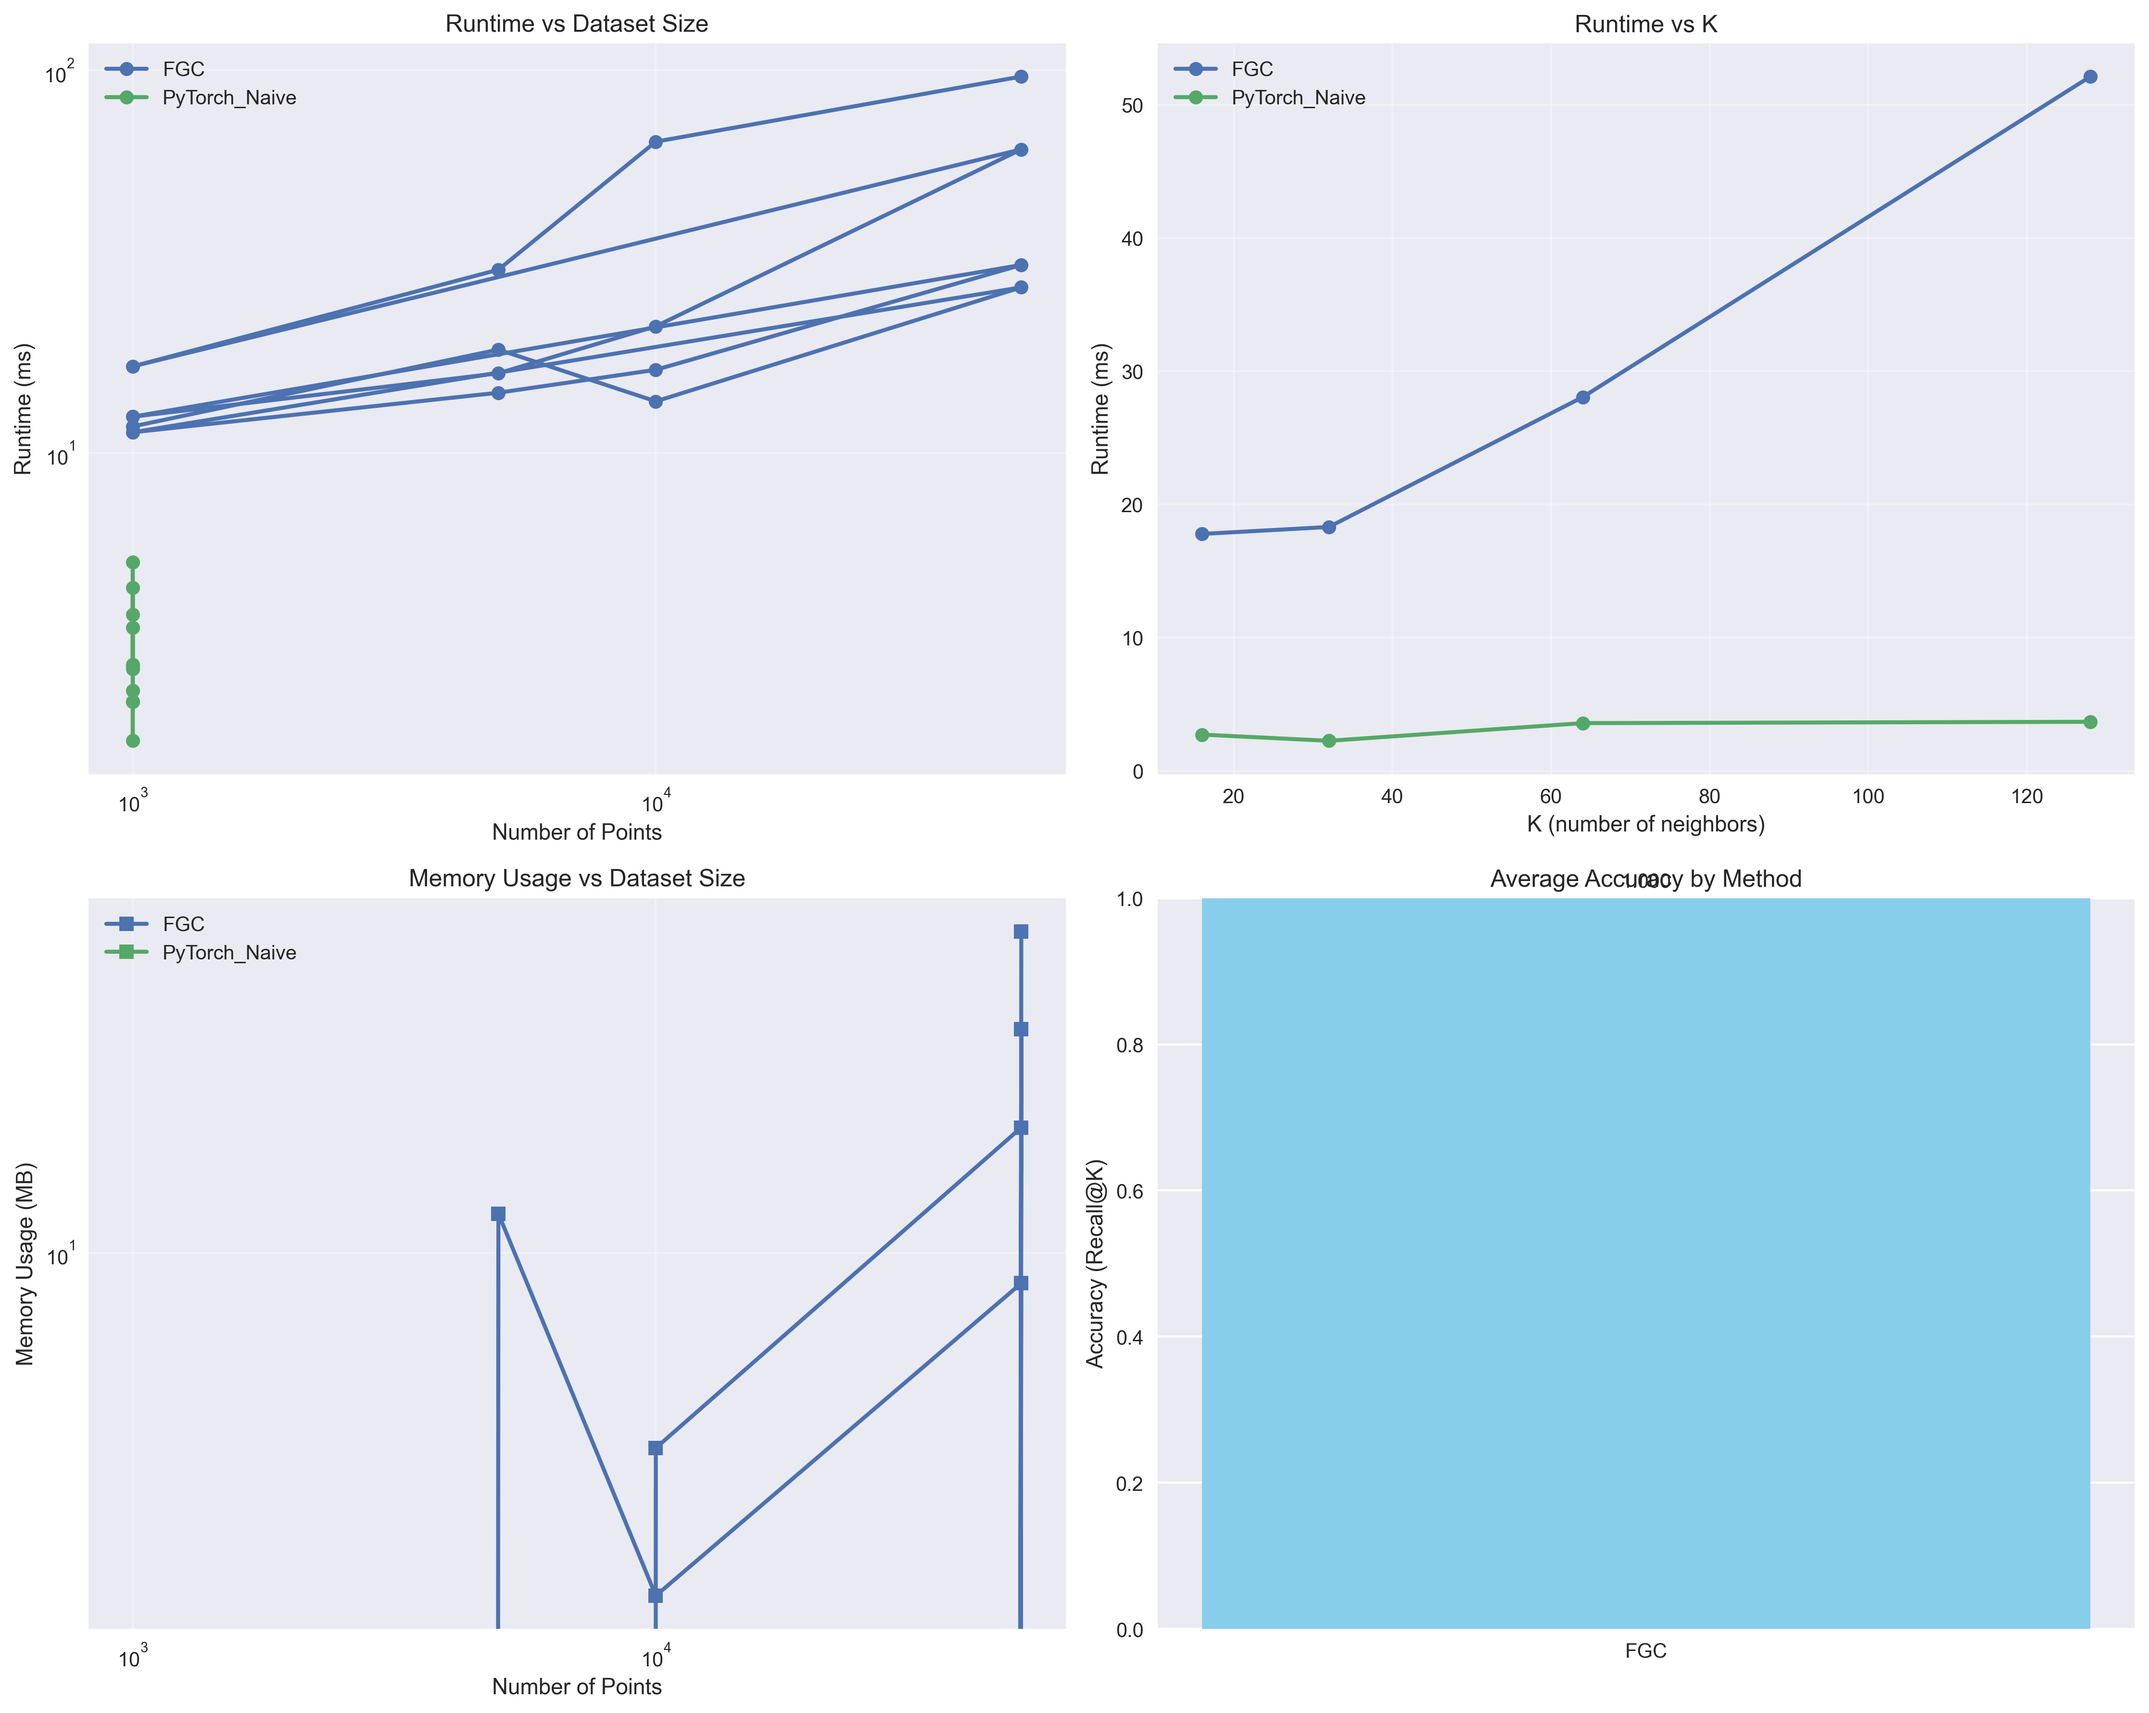
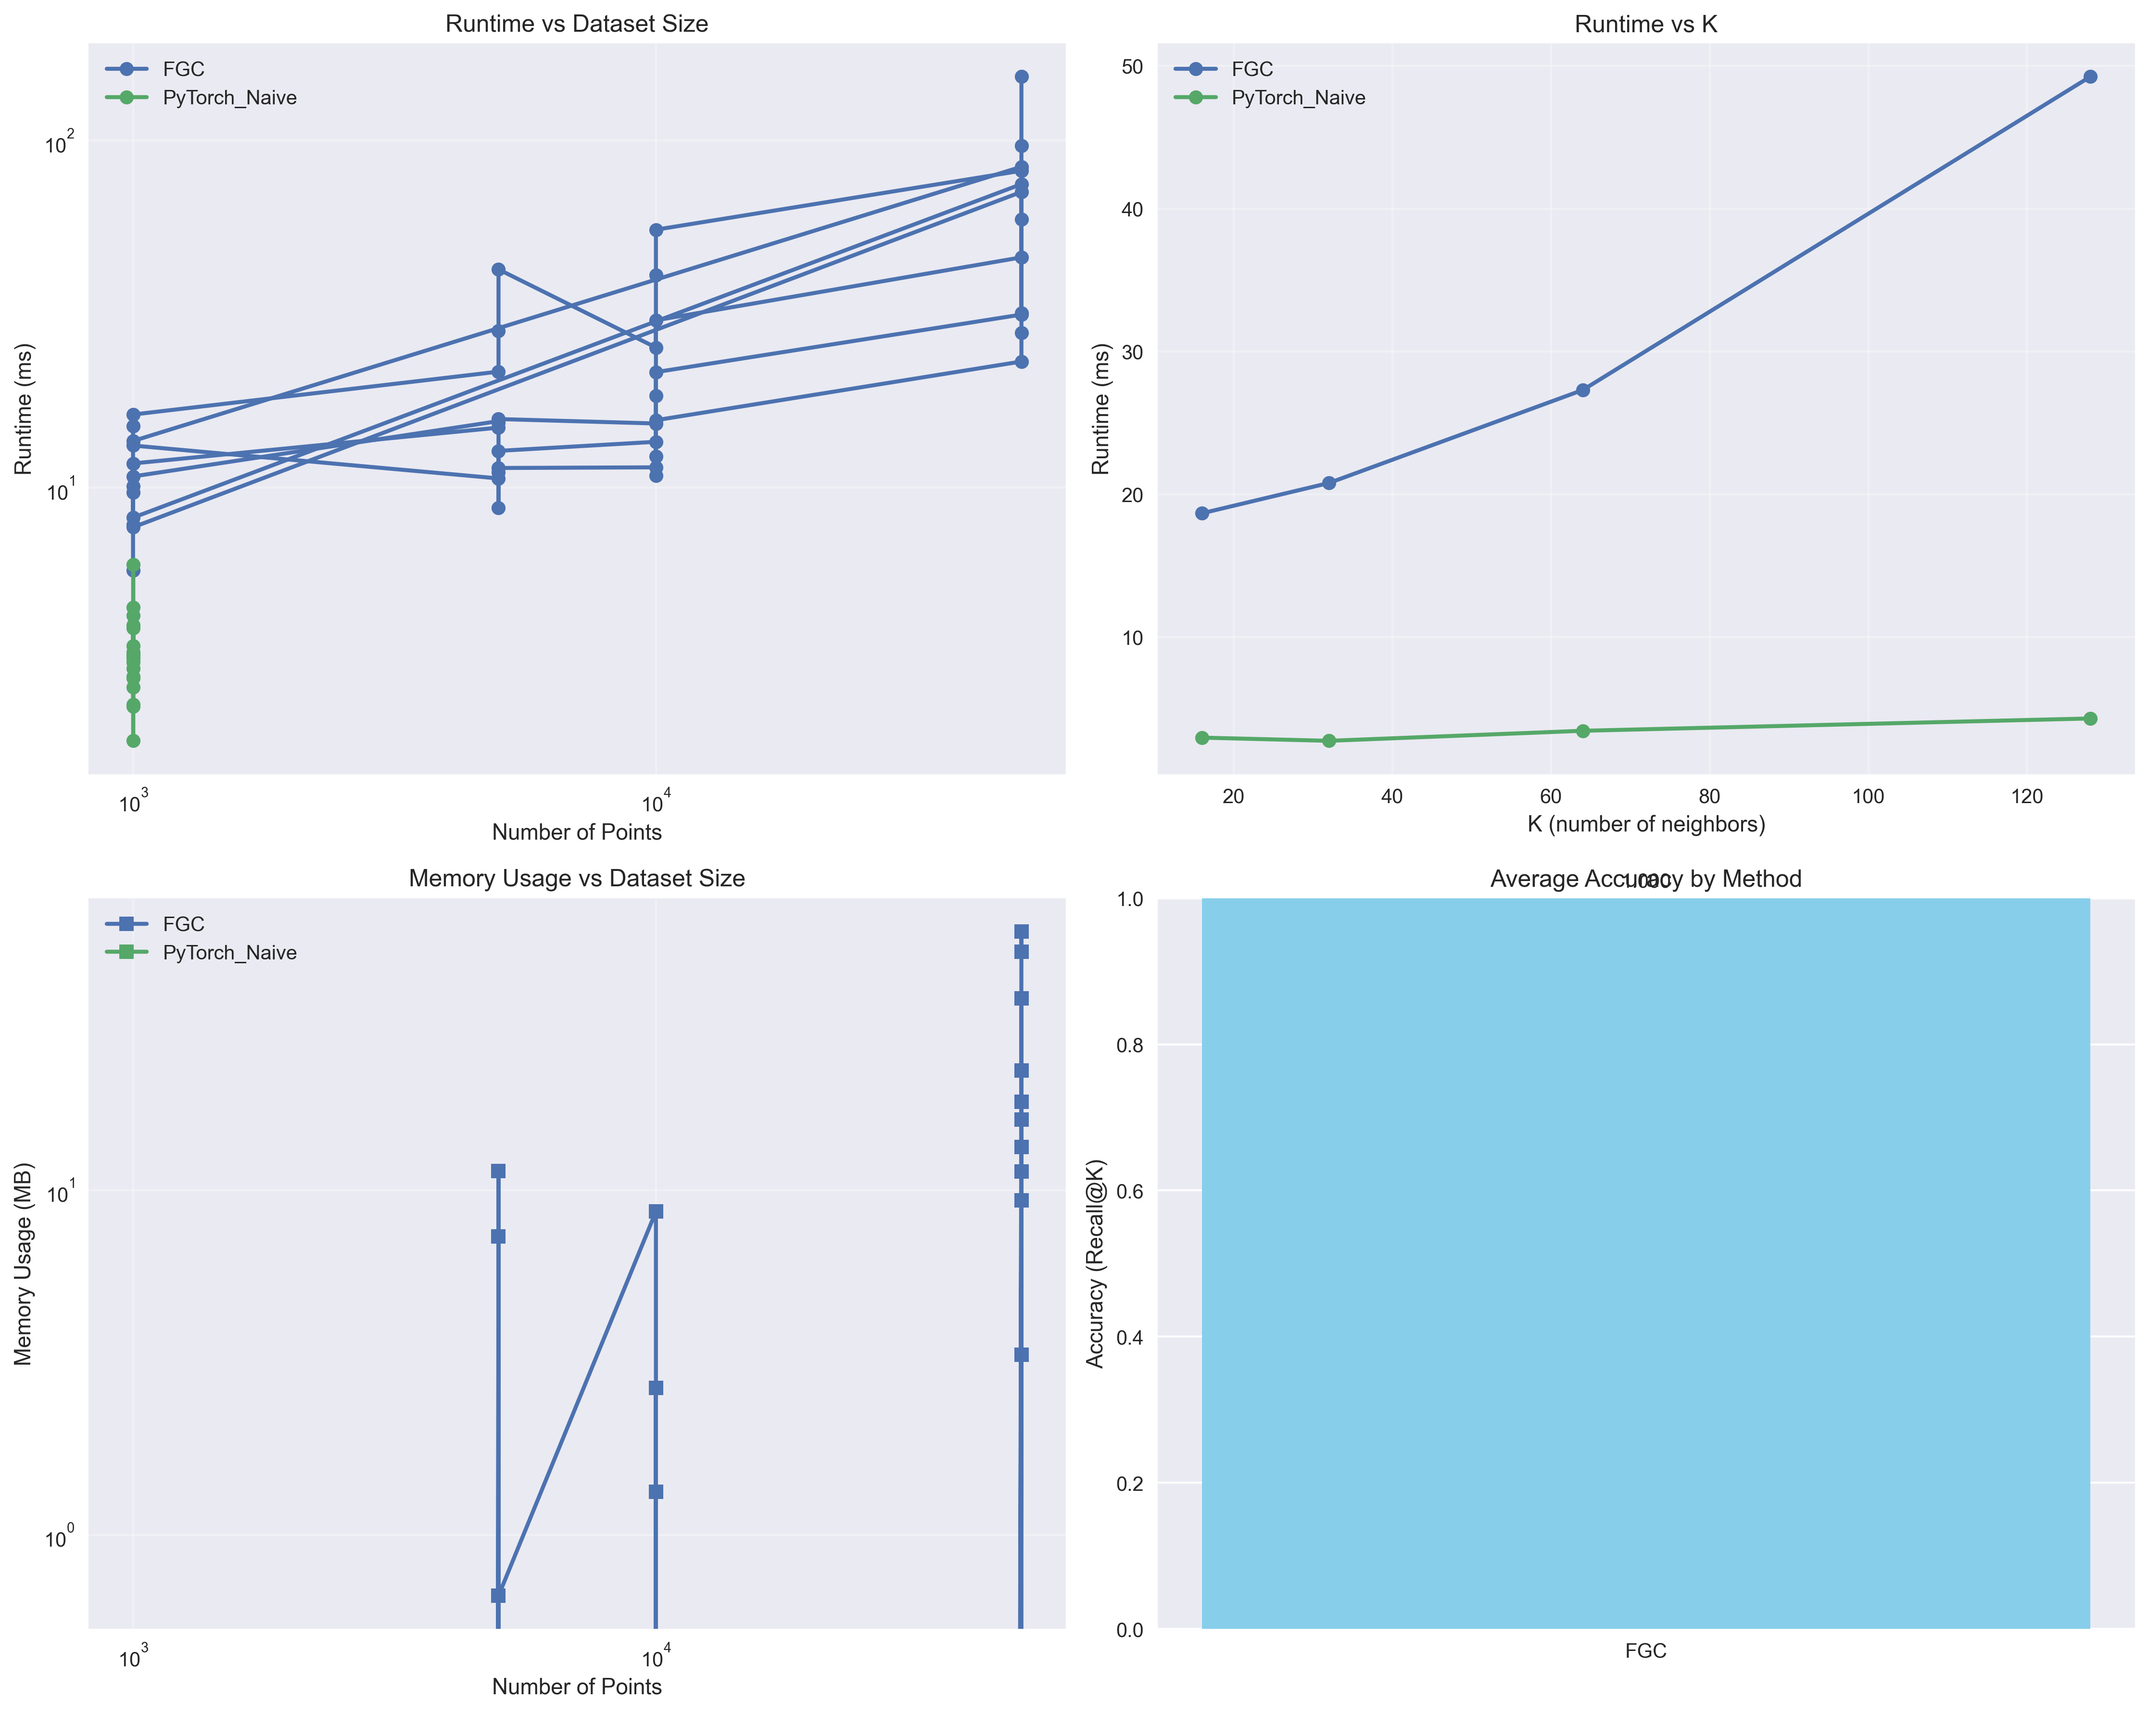
init performance analytics

diff --git a/performance/simple_comparison.py b/performance/simple_comparison.py
@@ -1,0 +1,121 @@
+#!/usr/bin/env python3
+"""
+Simple comparison between FAISS and FastGraphCompute (FGC) for KNN search.
+Minimal implementation with fixed parameters for quick testing.
+"""
+
+import time
+import numpy as np
+import torch
+
+# Set fixed seed for reproducibility
+SEED = 42
+np.random.seed(SEED)
+torch.manual_seed(SEED)
+
+# Fixed parameters
+K = 10
+DIMENSIONS = 3
+TEST_SIZES = [100, 500, 1000, 5000]
+
+def generate_data(n_points, dimensions, seed_offset=0):
+    """Generate random data with fixed seed."""
+    np.random.seed(SEED + seed_offset)
+    return np.random.randn(n_points, dimensions).astype(np.float32)
+
+def time_faiss(data, k):
+    """Time FAISS KNN search."""
+    try:
+        import faiss
+        
+        # Build index
+        index = faiss.IndexFlatL2(data.shape[1])
+        if torch.cuda.is_available():
+            res = faiss.StandardGpuResources()
+            index = faiss.index_cpu_to_gpu(res, 0, index)
+        
+        # Add data and search
+        start_time = time.time()
+        index.add(data)
+        distances, indices = index.search(data, k)
+        end_time = time.time()
+        
+        return (end_time - start_time) * 1000  # Convert to ms
+    except ImportError:
+        return "NOT_INSTALLED"
+    except Exception as e:
+        print(f"FAISS error: {e}")
+        return None
+
+def time_fgc(data, k):
+    """Time FGC KNN search."""
+    try:
+        import fastgraphcompute.extensions.binned_knn_ops
+        
+        device = 'cuda' if torch.cuda.is_available() else 'cpu'
+        
+        # Convert numpy array to PyTorch tensor (following test pattern)
+        coordinates = torch.from_numpy(data).float().to(device).contiguous()
+        row_splits = torch.tensor([0, len(data)], dtype=torch.int64, device=device)
+        
+        # Warm up GPU if using CUDA
+        if device == 'cuda':
+            torch.cuda.synchronize()
+        
+        start_time = time.time()
+        # Use the same function signature as tests
+        indices, distances = torch.ops.binned_select_knn.binned_select_knn(k, coordinates, row_splits)
+        if device == 'cuda':
+            torch.cuda.synchronize()
+        end_time = time.time()
+        
+        return (end_time - start_time) * 1000  # Convert to ms
+    except Exception as e:
+        print(f"FGC error: {e}")
+        return None
+
+def main():
+    print(f"Simple KNN Comparison (K={K}, D={DIMENSIONS})")
+    print("=" * 50)
+    
+    # Check what's available  
+    try:
+        import faiss
+        faiss_available = True
+    except ImportError:
+        faiss_available = False
+        print("Note: FAISS not installed - showing FGC performance only")
+        print("To install FAISS: pip install faiss-gpu")
+        print()
+    
+    print(f"{'Size':<8} {'FAISS (ms)':<12} {'FGC (ms)':<12} {'Speedup':<10}")
+    print("-" * 50)
+    
+    for size in TEST_SIZES:
+        # Generate test data
+        data = generate_data(size, DIMENSIONS)
+        
+        # Time both methods
+        faiss_time = time_faiss(data, K)
+        fgc_time = time_fgc(data, K)
+        
+        # Calculate speedup
+        if isinstance(faiss_time, (int, float)) and isinstance(fgc_time, (int, float)):
+            speedup = f"{faiss_time / fgc_time:.2f}x"
+        else:
+            speedup = "N/A"
+        
+        # Format results
+        if faiss_time == "NOT_INSTALLED":
+            faiss_str = "NOT_INST"
+        elif isinstance(faiss_time, (int, float)):
+            faiss_str = f"{faiss_time:.2f}"
+        else:
+            faiss_str = "ERROR"
+            
+        fgc_str = f"{fgc_time:.2f}" if isinstance(fgc_time, (int, float)) else "ERROR"
+        
+        print(f"{size:<8} {faiss_str:<12} {fgc_str:<12} {speedup:<10}")
+
+if __name__ == "__main__":
+    main()

diff --git a/performance/comparison.py b/performance/comparison.py
@@ -116,7 +116,11 @@ class KNNImplementations:
     
     @staticmethod
     def fgc_knn(coords: np.ndarray, k: int, use_gpu: bool = True) -> Tuple[np.ndarray, np.ndarray]:
-        """FastGraphCompute KNN implementation."""
+        """FastGraphCompute KNN implementation.
+        
+        Note: FGC binned_select_knn supports max_bin_dims of 2, 3, 4, or 5 only.
+        The binning dimensions are automatically limited to the coordinate dimensions.
+        """
         if not TORCH_AVAILABLE:
             raise ImportError("PyTorch not available")
         
@@ -130,11 +134,16 @@ class KNNImplementations:
         if torch.cuda.is_available() and use_gpu:
             torch.cuda.synchronize()
         
+        # FGC supports max_bin_dims of 2, 3, 4, or 5 only
+        # Limit to min of coordinate dimensions and 5
+        max_bin_dims = min(coords_tensor.shape[1], 5)
+        max_bin_dims = max(max_bin_dims, 2)  # Ensure at least 2
+        
         indices, distances = binned_select_knn(
             K=k,
             coords=coords_tensor,
             row_splits=row_splits,
-            max_bin_dims=3
+            max_bin_dims=max_bin_dims
         )
         
         if torch.cuda.is_available() and use_gpu:
@@ -487,10 +496,11 @@ def main():
     """Main function to run the benchmark."""
     
     # Start with small test configuration
+    # Note: FGC requires at least 2 dimensions for binning
     small_config = TestConfig(
         k_values=[8, 16, 32],
         n_points_list=[100, 500, 1000],
-        dimensions_list=[2, 4, 8],
+        dimensions_list=[2, 3, 4, 8],  # Start from 2D since FGC requires min 2 dims
         n_runs=3,
         use_gpu=torch.cuda.is_available() if TORCH_AVAILABLE else False
     )
@@ -511,7 +521,7 @@ def main():
         large_config = TestConfig(
             k_values=[16, 32, 64, 128],
             n_points_list=[1000, 5000, 10000, 50000],
-            dimensions_list=[3, 8, 16],
+            dimensions_list=[2, 3, 5, 8, 16],  # Include 2D, 3D, 5D (max binning), and higher
             n_runs=3,
             use_gpu=torch.cuda.is_available() if TORCH_AVAILABLE else False
         )

diff --git a/fastgraphcompute/gnn_ops.py b/fastgraphcompute/gnn_ops.py
@@ -85,7 +85,7 @@ class GravNetOp(torch.nn.Module):
         # Step 3: Determine the k-nearest neighbors based on the learned space
         # neighbor_idx: Indices of k-nearest neighbors
         # distsq: Squared distances to k-nearest neighbors
-        neighbor_idx, distsq = binned_select_knn(self.k, space, row_splits) #, **self.optimization_arguments)
+        neighbor_idx, distsq = binned_select_knn(self.k, space.contiguous(), row_splits) #, **self.optimization_arguments)
 
         # Step 4: Compute weights based on distances (using a Gaussian kernel)
         weights = torch.exp(-10. * distsq)  # B x K

diff --git a/fastgraphcompute/extensions/binned_select_knn.py b/fastgraphcompute/extensions/binned_select_knn.py
@@ -72,9 +72,11 @@ def binned_select_knn(K: int,
         max_bin_dims = int(max_bin_dims)
 
     # Automatically adjust max_bin_dims based on coordinate dimensions
+    # FGC supports max_bin_dims of 2, 3, 4, or 5 only
+    # Limit to min of coordinate dimensions and 5
     coord_dims = coords.shape[1]
-    if max_bin_dims < coord_dims:
-        max_bin_dims = coord_dims
+    max_bin_dims = min(max_bin_dims, coord_dims, 5)
+    max_bin_dims = max(max_bin_dims, 2)  # Ensure at least 2
 
     # Ensure row_splits is a tensor
     if not isinstance(row_splits, torch.Tensor):
